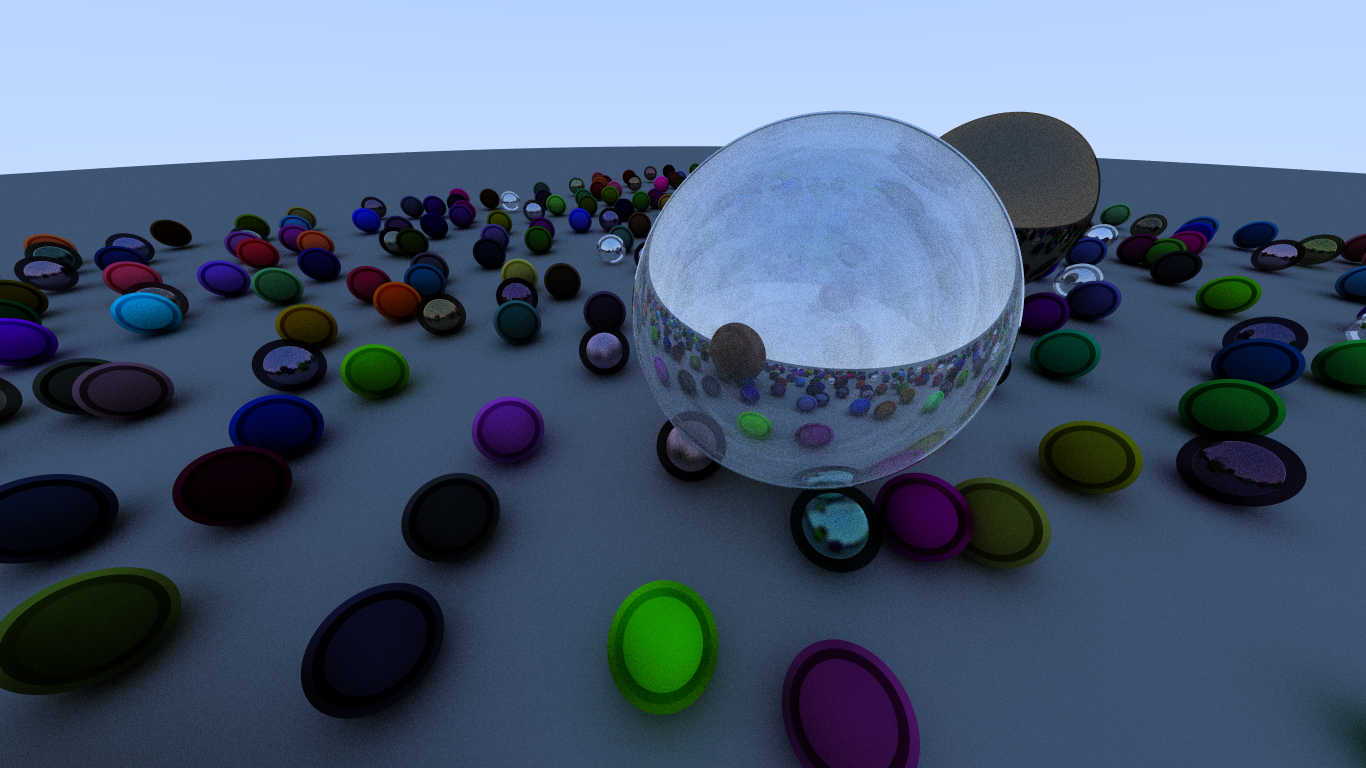
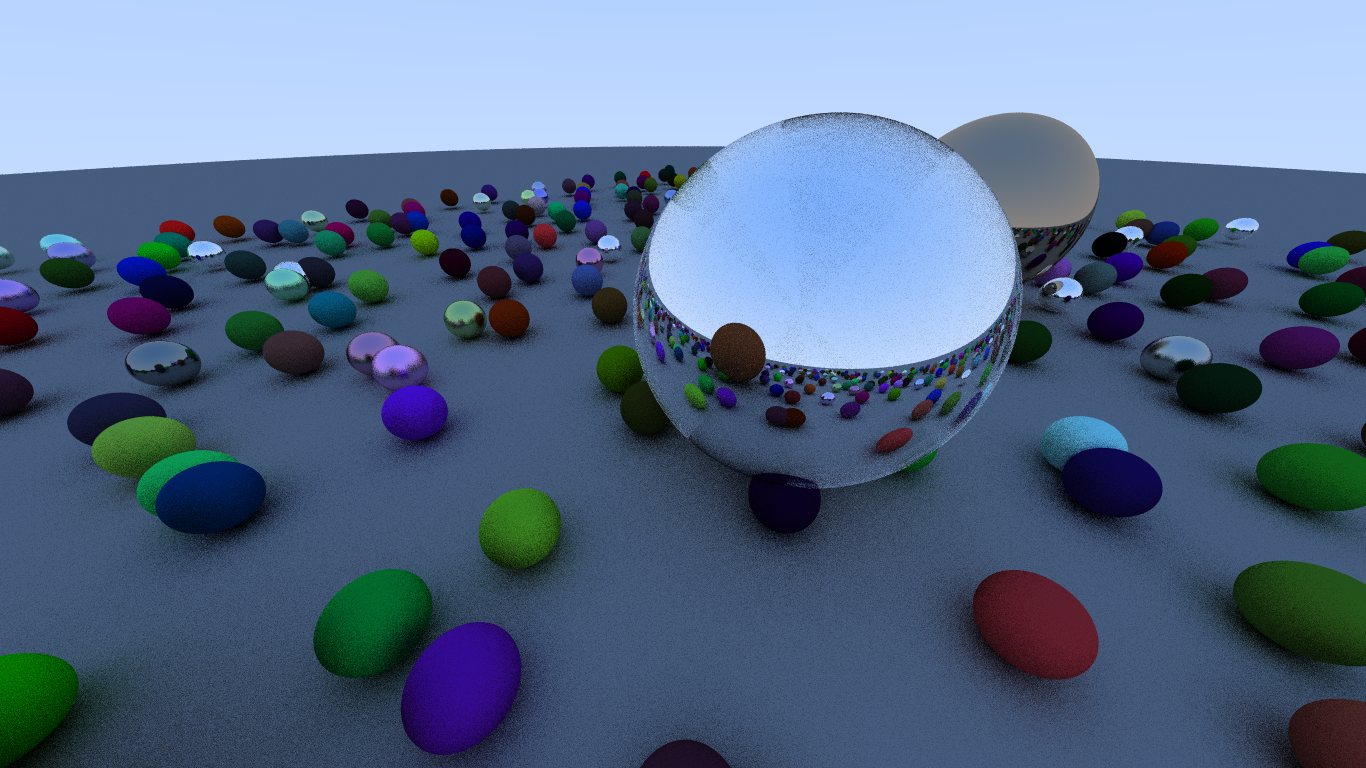
Now it matches better with the github code. This solves most artifacts.

diff --git a/src/shapes.rs b/src/shapes.rs
@@ -1,3 +1,5 @@
+use std::mem::discriminant;
+
 use crate::materials::Material;
 use crate::ray::{Hit, Ray};
 use crate::vec3::Vec3;
@@ -13,32 +15,32 @@ impl Shape {
             Shape::Sphere(center, radious, mat) => {
                 let o_c = ray.origin - *center;
                 let a = Vec3::dot(ray.direction, ray.direction);
-                let b = Vec3::dot(ray.direction, o_c) * 2.0;
+                let half_b = Vec3::dot(ray.direction, o_c);
                 let c = Vec3::dot(o_c, o_c) - radious * radious;
 
-                let mut raiz = b * b - 4.0 * a * c;
+                let discriminant = half_b * half_b - a * c;
 
-                if raiz.abs() < 0.05 {
-                    raiz = 0.0;
-                }
-
-                if raiz < 0.0 {
+                if discriminant < 0.0 {
                     return None;
                 }
 
-                raiz = raiz.sqrt();
+                let squared_discriminant = discriminant.sqrt();
 
-                let mut t = (-b - raiz) / (2.0 * a);
-                if t <= 0.0 {
-                    t = (-b + raiz) / (2.0 * a)
-                };
-                if t <= 0.0 {
-                    return None;
+                let mut root = (-half_b - squared_discriminant) / a;
+
+                let min_t = 0.001;
+
+                // If it's too close to the camera don't take it
+                if root < min_t {
+                    root = (-half_b + squared_discriminant) / a;
+                    if root < min_t {
+                        return None;
+                    }
                 }
 
-                let point = ray.point(t);
+                let point = ray.point(root);
 
-                Some(Hit::new(t, point, (point - *center).normalized(), *mat))
+                Some(Hit::new(root, point, (point - *center) / *radious, *mat))
             }
             Shape::Plane(normal, distance, mat) => {
                 let d = Vec3::dot(*normal, ray.direction);

diff --git a/src/ray.rs b/src/ray.rs
@@ -1,5 +1,3 @@
-use std::cmp::Ordering;
-
 use crate::materials::Material;
 use crate::shapes::Shape;
 use crate::vec3::Vec3;
@@ -48,13 +46,12 @@ impl Ray {
             .reduce(|a, b| if a.t < b.t { a } else { b })
     }
 
-    pub fn bounce(&self, world: &[Shape], ambient_light: Vec3, ttl: i32) -> Vec3 {
+    pub fn bounce(&self, world: &[Shape], ambient_light: &Vec3, ttl: i32) -> Vec3 {
         if ttl <= 0 {
-            return ambient_light;
+            return *ambient_light;
         }
-        let hit = self.first_hit(world);
 
-        match hit {
+        match self.first_hit(world) {
             Some(h) => {
                 let res = h.material.scatter(self, h);
 
@@ -67,7 +64,7 @@ impl Ray {
             }
             None => {
                 let t = 0.5 * (self.direction.y + 1.0);
-                Vec3::new(1.0, 1.0, 1.0) * (1.0 - t) + ambient_light * t
+                Vec3::new(1.0, 1.0, 1.0) * (1.0 - t) + *ambient_light * t
             }
         }
     }

diff --git a/src/materials.rs b/src/materials.rs
@@ -52,12 +52,10 @@ impl Material {
             }
             Material::Metal(albedo, fuzz) => {
                 let reflected = Vec3::reflect(ray.direction, hit.normal);
-
-                if Vec3::dot(reflected, hit.normal) > 0.0 {
-                    Some((
-                        Ray::new(hit.point, reflected + Vec3::random_in_unit_sphere() * fuzz),
-                        albedo,
-                    ))
+                let scatered =
+                    Ray::new(hit.point, reflected + Vec3::random_in_unit_sphere() * fuzz);
+                if Vec3::dot(scatered.direction, hit.normal) > 0.0 {
+                    Some((scatered, albedo))
                 } else {
                     None
                 }

diff --git a/src/main.rs b/src/main.rs
@@ -24,7 +24,7 @@ use rand::prelude::Rng;
 
 const WIDHT: usize = 1366;
 const HEIGHT: usize = 768;
-const SAMPLES: usize = 100;
+const SAMPLES: usize = 20;
 const RATIO: f64 = WIDHT as f64 / HEIGHT as f64;
 const TTL: i32 = 1024;
 
@@ -100,7 +100,7 @@ fn raytrace(world: &[Shape], camera: Camera, ambient_light: Vec3) -> Vec<Vec3> {
                 let y_offset = (f as f64 + rng.gen::<f64>()) / HEIGHT as f64;
                 let ray = camera.get_pixel(x_offset, y_offset);
 
-                ray.bounce(world, ambient_light, TTL)
+                ray.bounce(world, &ambient_light, TTL)
             })
             .collect();
 
